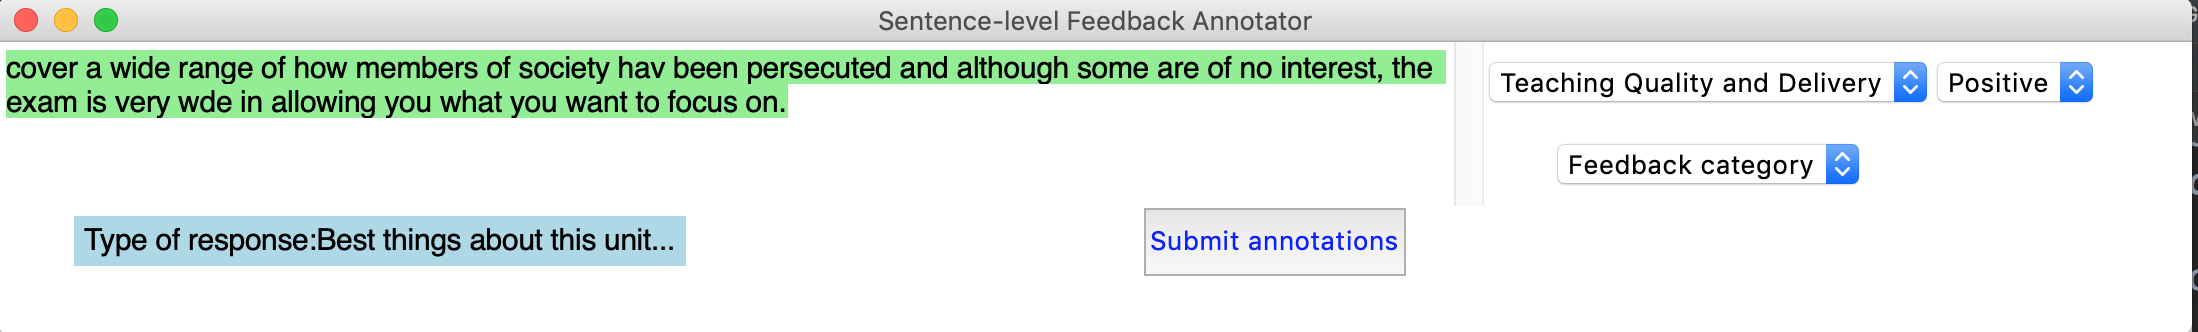
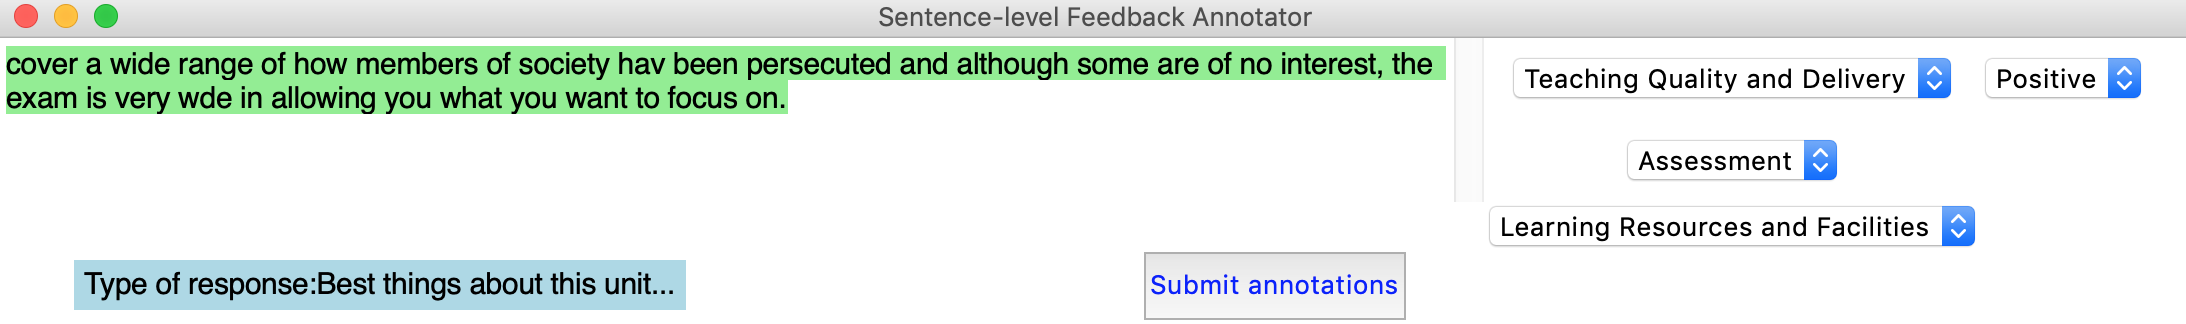
Added end-of-collection check

diff --git a/README.md b/README.md
@@ -62,6 +62,8 @@ Finally, the annotation process will proceed to the next sentence of the comment
 
 <br />
 
-* **Multi-label annotations:** In order to assign more than one feedback categories to a single sentence, we can press the 'm' key in order to create a second feedback category drop-down list.
+* **Multi-label annotations:** In order to assign more than one feedback category to a single sentence, we can press the 'm' key in order to create additional feedback category drop-down lists.
  
-<img align="center"  height="130" src="https://raw.githubusercontent.com/gkontonatsios/sentence-annotation-tool/master/figures/main_window_3.png"> 
+<img align="center"  height="130" src="https://raw.githubusercontent.com/gkontonatsios/sentence-annotation-tool/master/figures/main_window_3.png">
+
+ 
